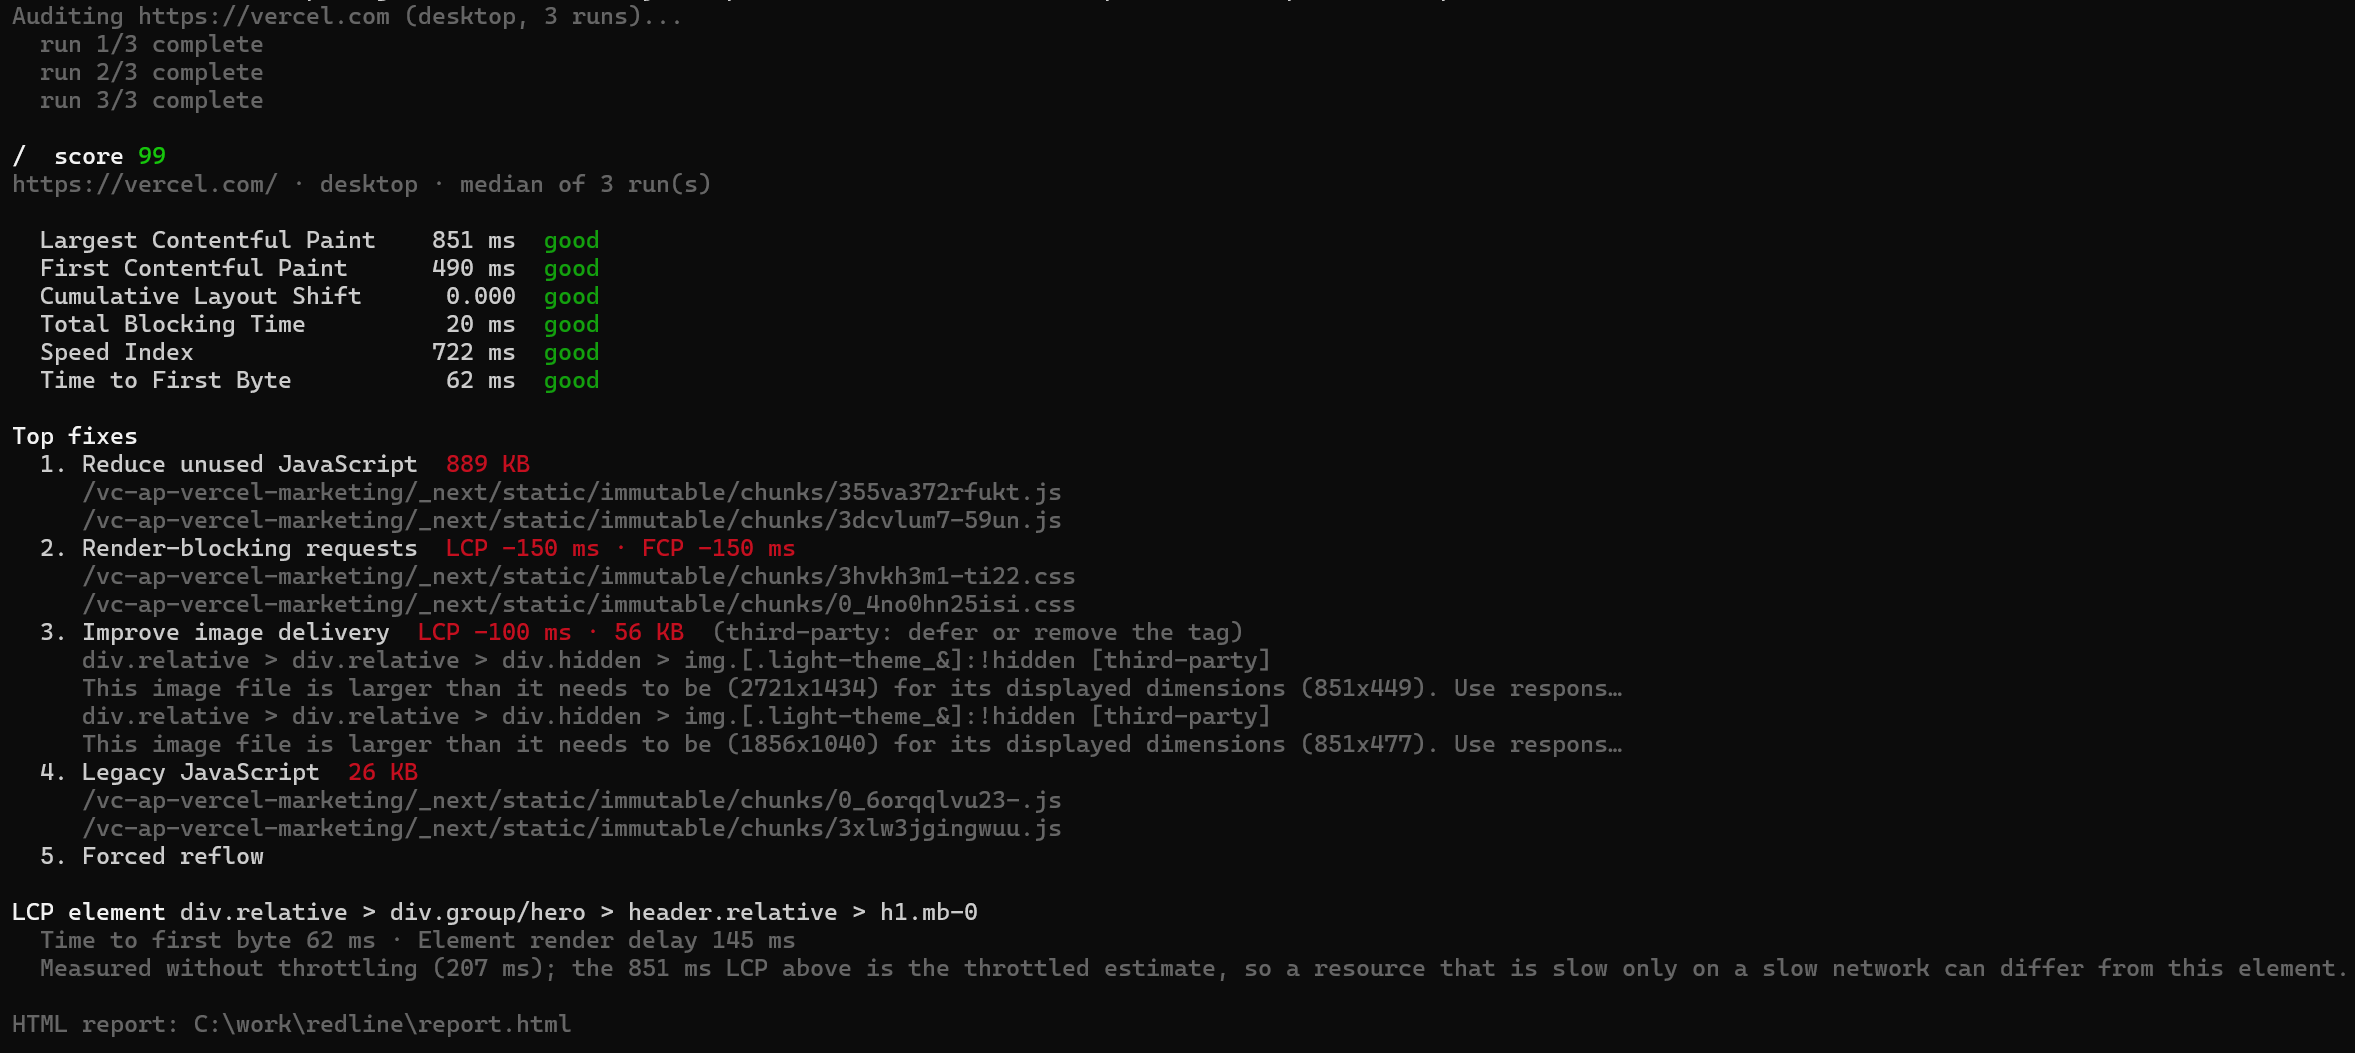
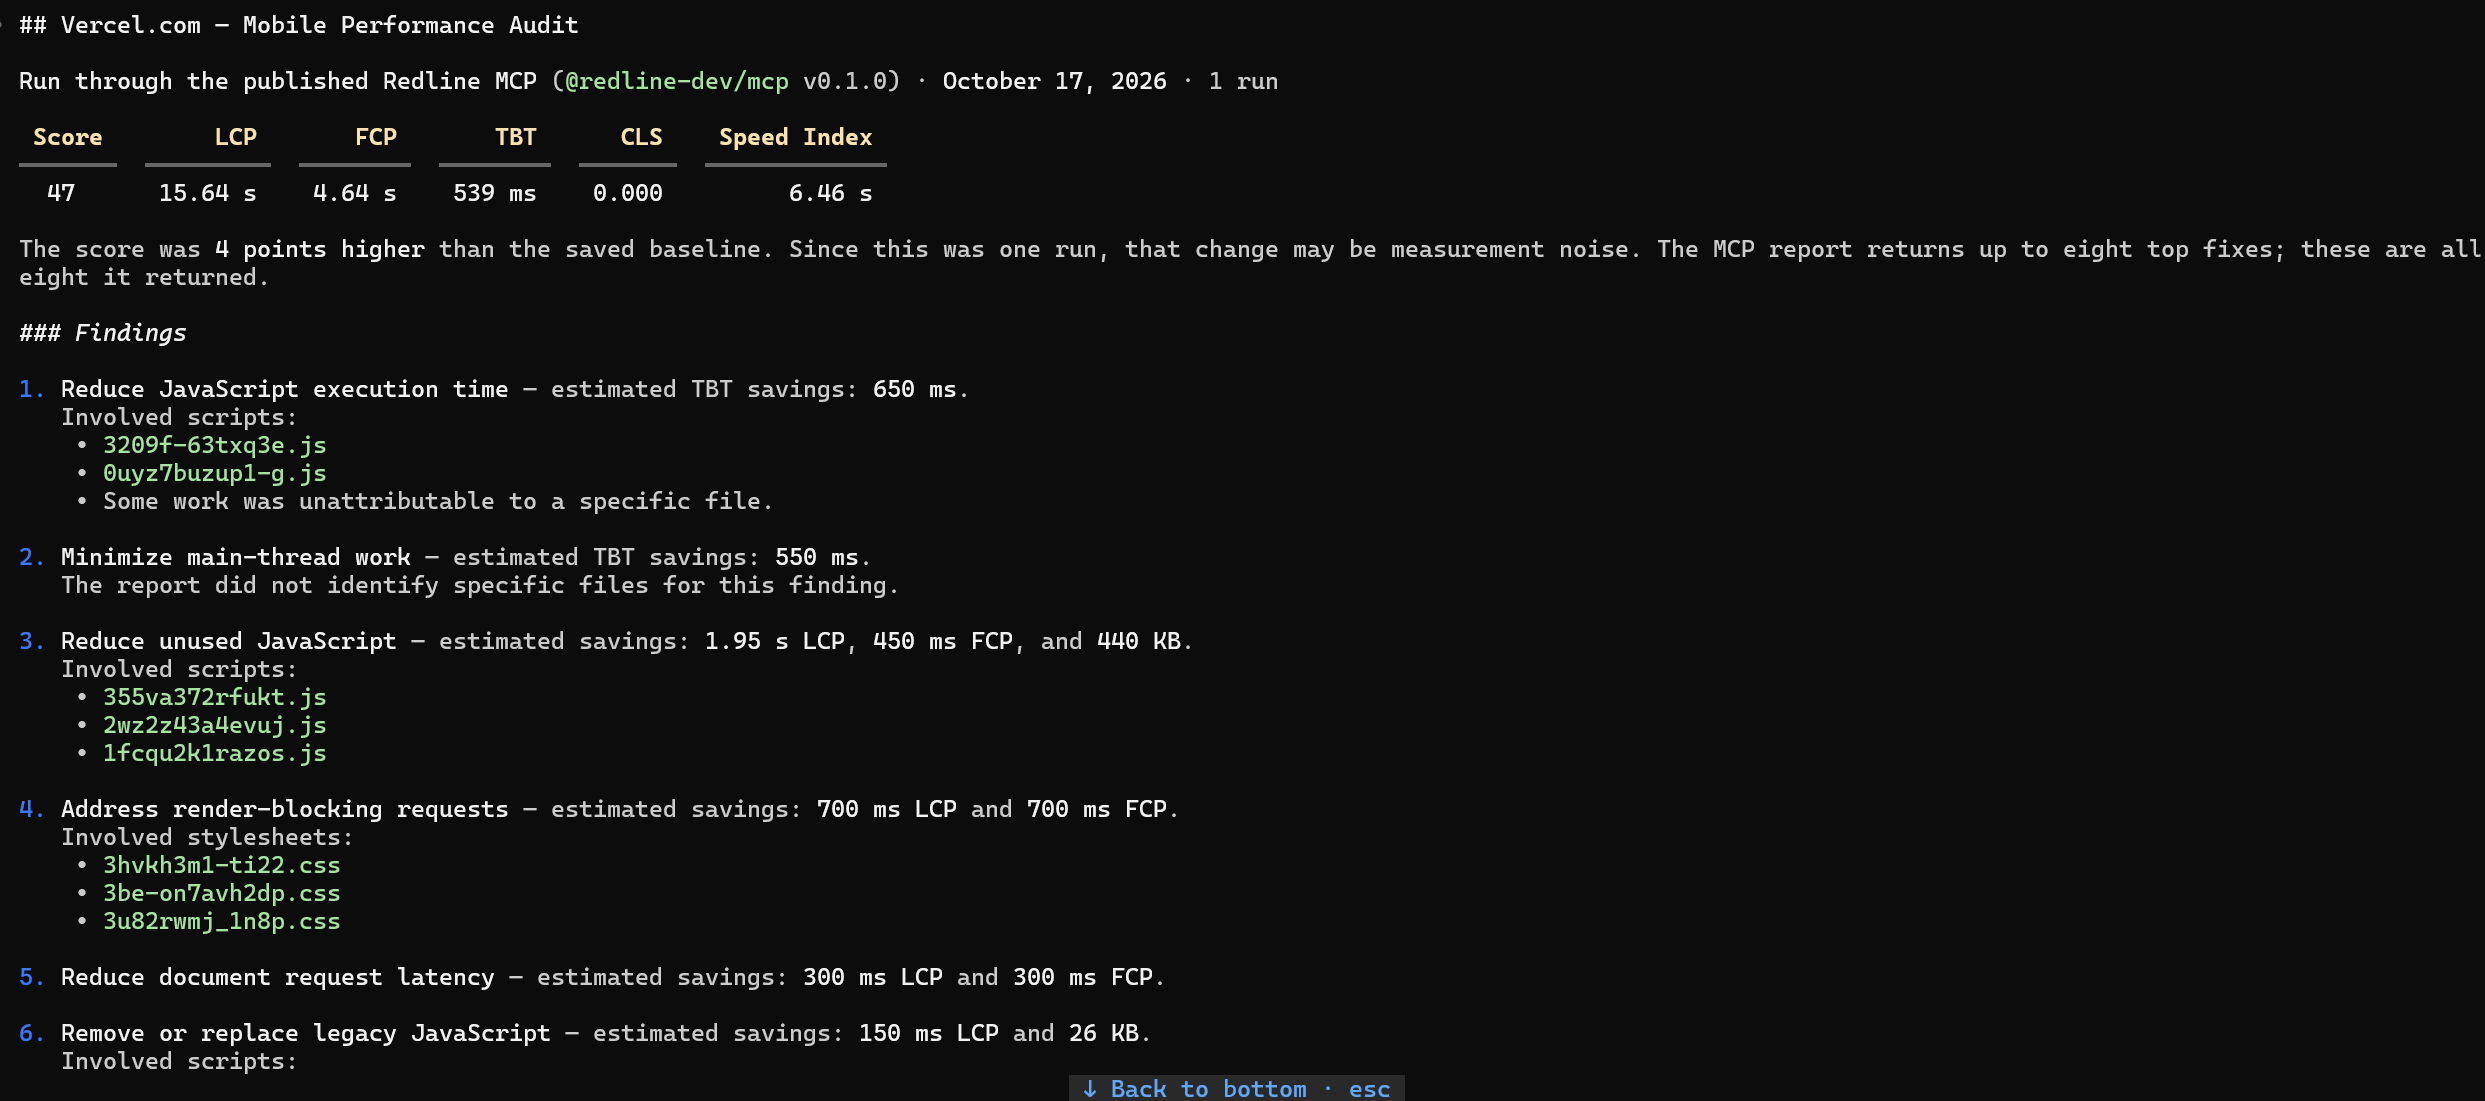
update package name

Changed region(s): [[0.0, 0.2127, 1.0, 1.0], [0.0, 0.0, 0.527, 0.1823], [0.403, 0.9725, 0.589, 1.0]]

diff --git a/src/components/sections/Footer.tsx b/src/components/sections/Footer.tsx
@@ -1,4 +1,7 @@
+import githubIcon from '@/assets/github.svg';
 import { AddToClaude, Container, Reveal } from './shared';
+
+const GITHUB_URL = 'https://github.com/Doritosaur/redline';
 
 export function Footer(): React.JSX.Element {
   return (
@@ -18,7 +21,7 @@ export function Footer(): React.JSX.Element {
         <Reveal delay={100}>
           <div className="mt-9 flex flex-wrap items-center gap-5">
             <AddToClaude />
-            <span className="font-mono text-xs text-muted-foreground">or run npx @redline/cli localhost:3000</span>
+            <span className="font-mono text-xs text-muted-foreground">or run npx redline-dev localhost:3000</span>
           </div>
         </Reveal>
         <div className="mt-24 flex flex-wrap items-center justify-between gap-4 border-t border-white/10 pt-6 text-xs text-muted-foreground">
@@ -26,7 +29,18 @@ export function Footer(): React.JSX.Element {
             <a href="#install" className="transition-colors hover:text-foreground">Install</a>
             <a href="#faq" className="transition-colors hover:text-foreground">FAQ</a>
           </div>
-          <p>© 2026 Redline. All rights reserved.</p>
+          <div className="flex items-center gap-5">
+            <a
+              href={GITHUB_URL}
+              target="_blank"
+              rel="noopener noreferrer"
+              aria-label="Redline on GitHub"
+              className="group"
+            >
+              <img src={githubIcon} alt="" className="size-5 opacity-60 transition-opacity group-hover:opacity-100" />
+            </a>
+            <p>© 2026 Redline. All rights reserved.</p>
+          </div>
         </div>
       </Container>
     </footer>

diff --git a/src/components/sections/Install.tsx b/src/components/sections/Install.tsx
@@ -13,7 +13,7 @@ const CARDS = [
     title: 'In your terminal',
     body: 'Audit a dev server or any live URL. Needs Node 22+ and Chrome.',
     label: 'terminal',
-    code: 'npx @redline/cli localhost:3000\nnpx @redline/cli https://example.com --runs 3 --html report.html',
+    code: 'npx redline-dev localhost:3000\nnpx redline-dev https://example.com --runs 3 --html report.html',
   },
   {
     title: 'In CI',
@@ -22,7 +22,7 @@ const CARDS = [
     code: "export default {\n  baseUrl: 'http://localhost:3000',\n  pages: ['/', '/pricing'],\n  runs: 3,\n  budgets: { score: 80, lcp: 2500, cls: 0.1 },\n};",
     second: {
       label: '.github/workflows/redline.yml',
-      code: 'on: pull_request\njobs:\n  redline:\n    runs-on: ubuntu-latest\n    steps:\n      - uses: actions/checkout@v4\n      - uses: actions/setup-node@v4\n        with:\n          node-version: 22\n      - run: npm ci && npm run dev &\n      - run: npx wait-on http://localhost:3000 && npx @redline/cli http://localhost:3000',
+      code: 'on: pull_request\njobs:\n  redline:\n    runs-on: ubuntu-latest\n    steps:\n      - uses: actions/checkout@v4\n      - uses: actions/setup-node@v4\n        with:\n          node-version: 22\n      - run: npm ci && npm run dev &\n      - run: npx wait-on http://localhost:3000 && npx redline-dev http://localhost:3000',
     },
   },
 ];

diff --git a/src/components/sections/Hero.tsx b/src/components/sections/Hero.tsx
@@ -21,7 +21,7 @@ export function Hero(): React.JSX.Element {
         <Reveal delay={200}>
           <div className="mt-9 flex flex-wrap items-center gap-5">
             <AddToClaude />
-            <span className="font-mono text-xs text-muted-foreground">or run npx @redline/cli localhost:3000</span>
+            <span className="font-mono text-xs text-muted-foreground">or run npx redline-dev localhost:3000</span>
           </div>
         </Reveal>
         <Reveal delay={320} className="mt-16">

diff --git a/src/lib/copy.ts b/src/lib/copy.ts
@@ -1,6 +1,6 @@
 import { useEffect, useRef, useState } from 'react';
 
-export const MCP_COMMAND = 'claude mcp add redline -- npx -y @redline/mcp';
+export const MCP_COMMAND = 'claude mcp add redline -- npx -y @redline-dev/mcp';
 
 export function useCopy(text: string): [boolean, () => void] {
   const [copied, setCopied] = useState(false);
